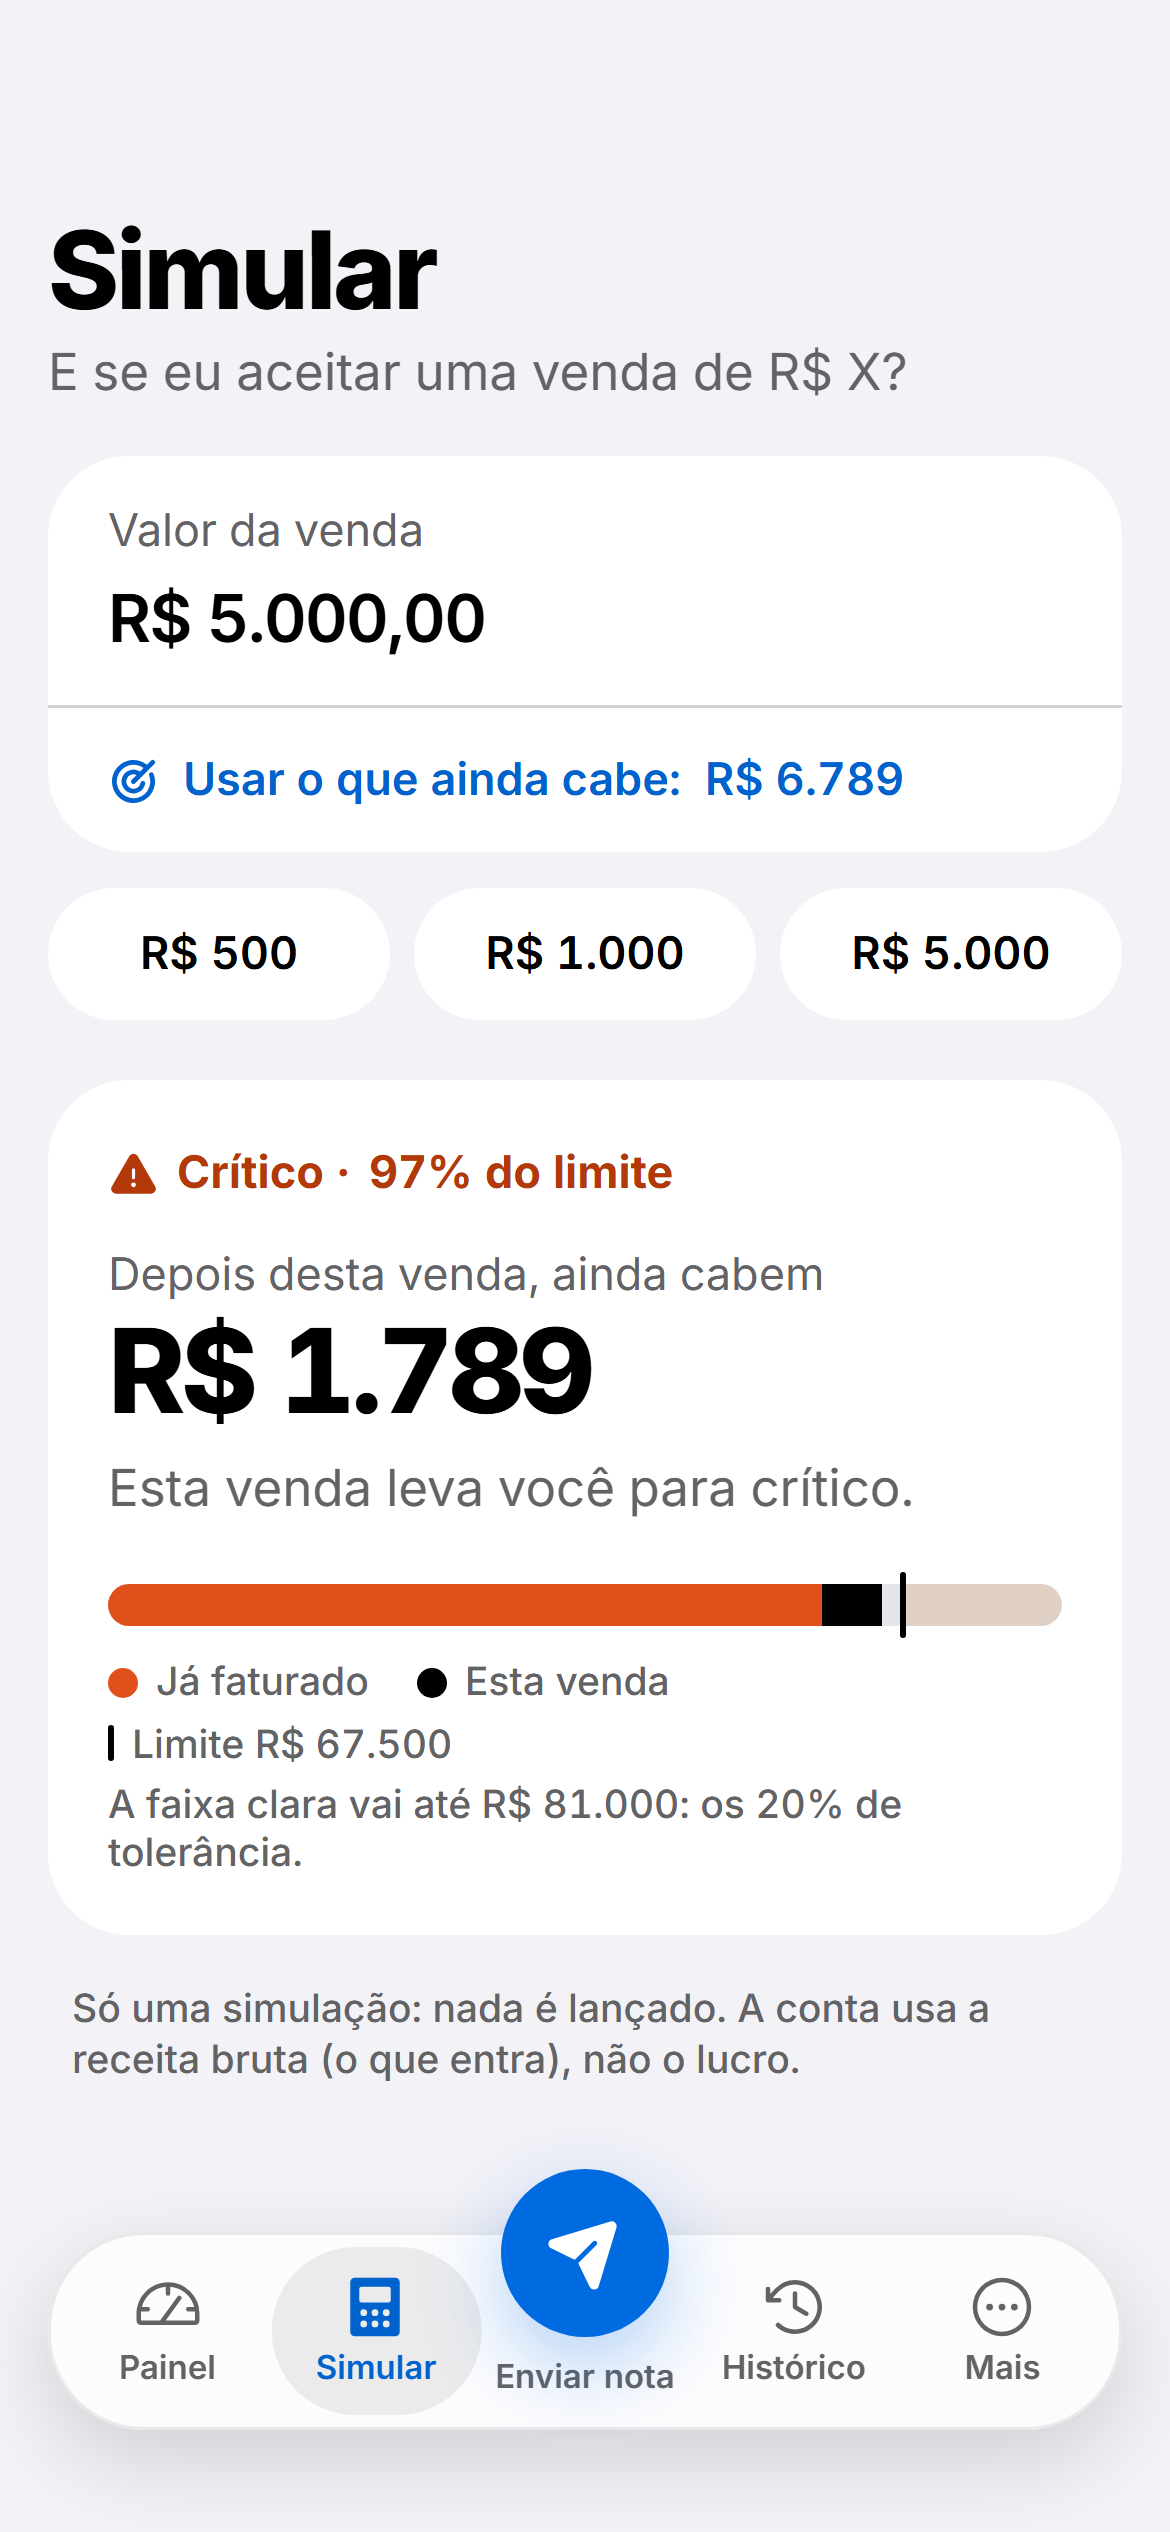
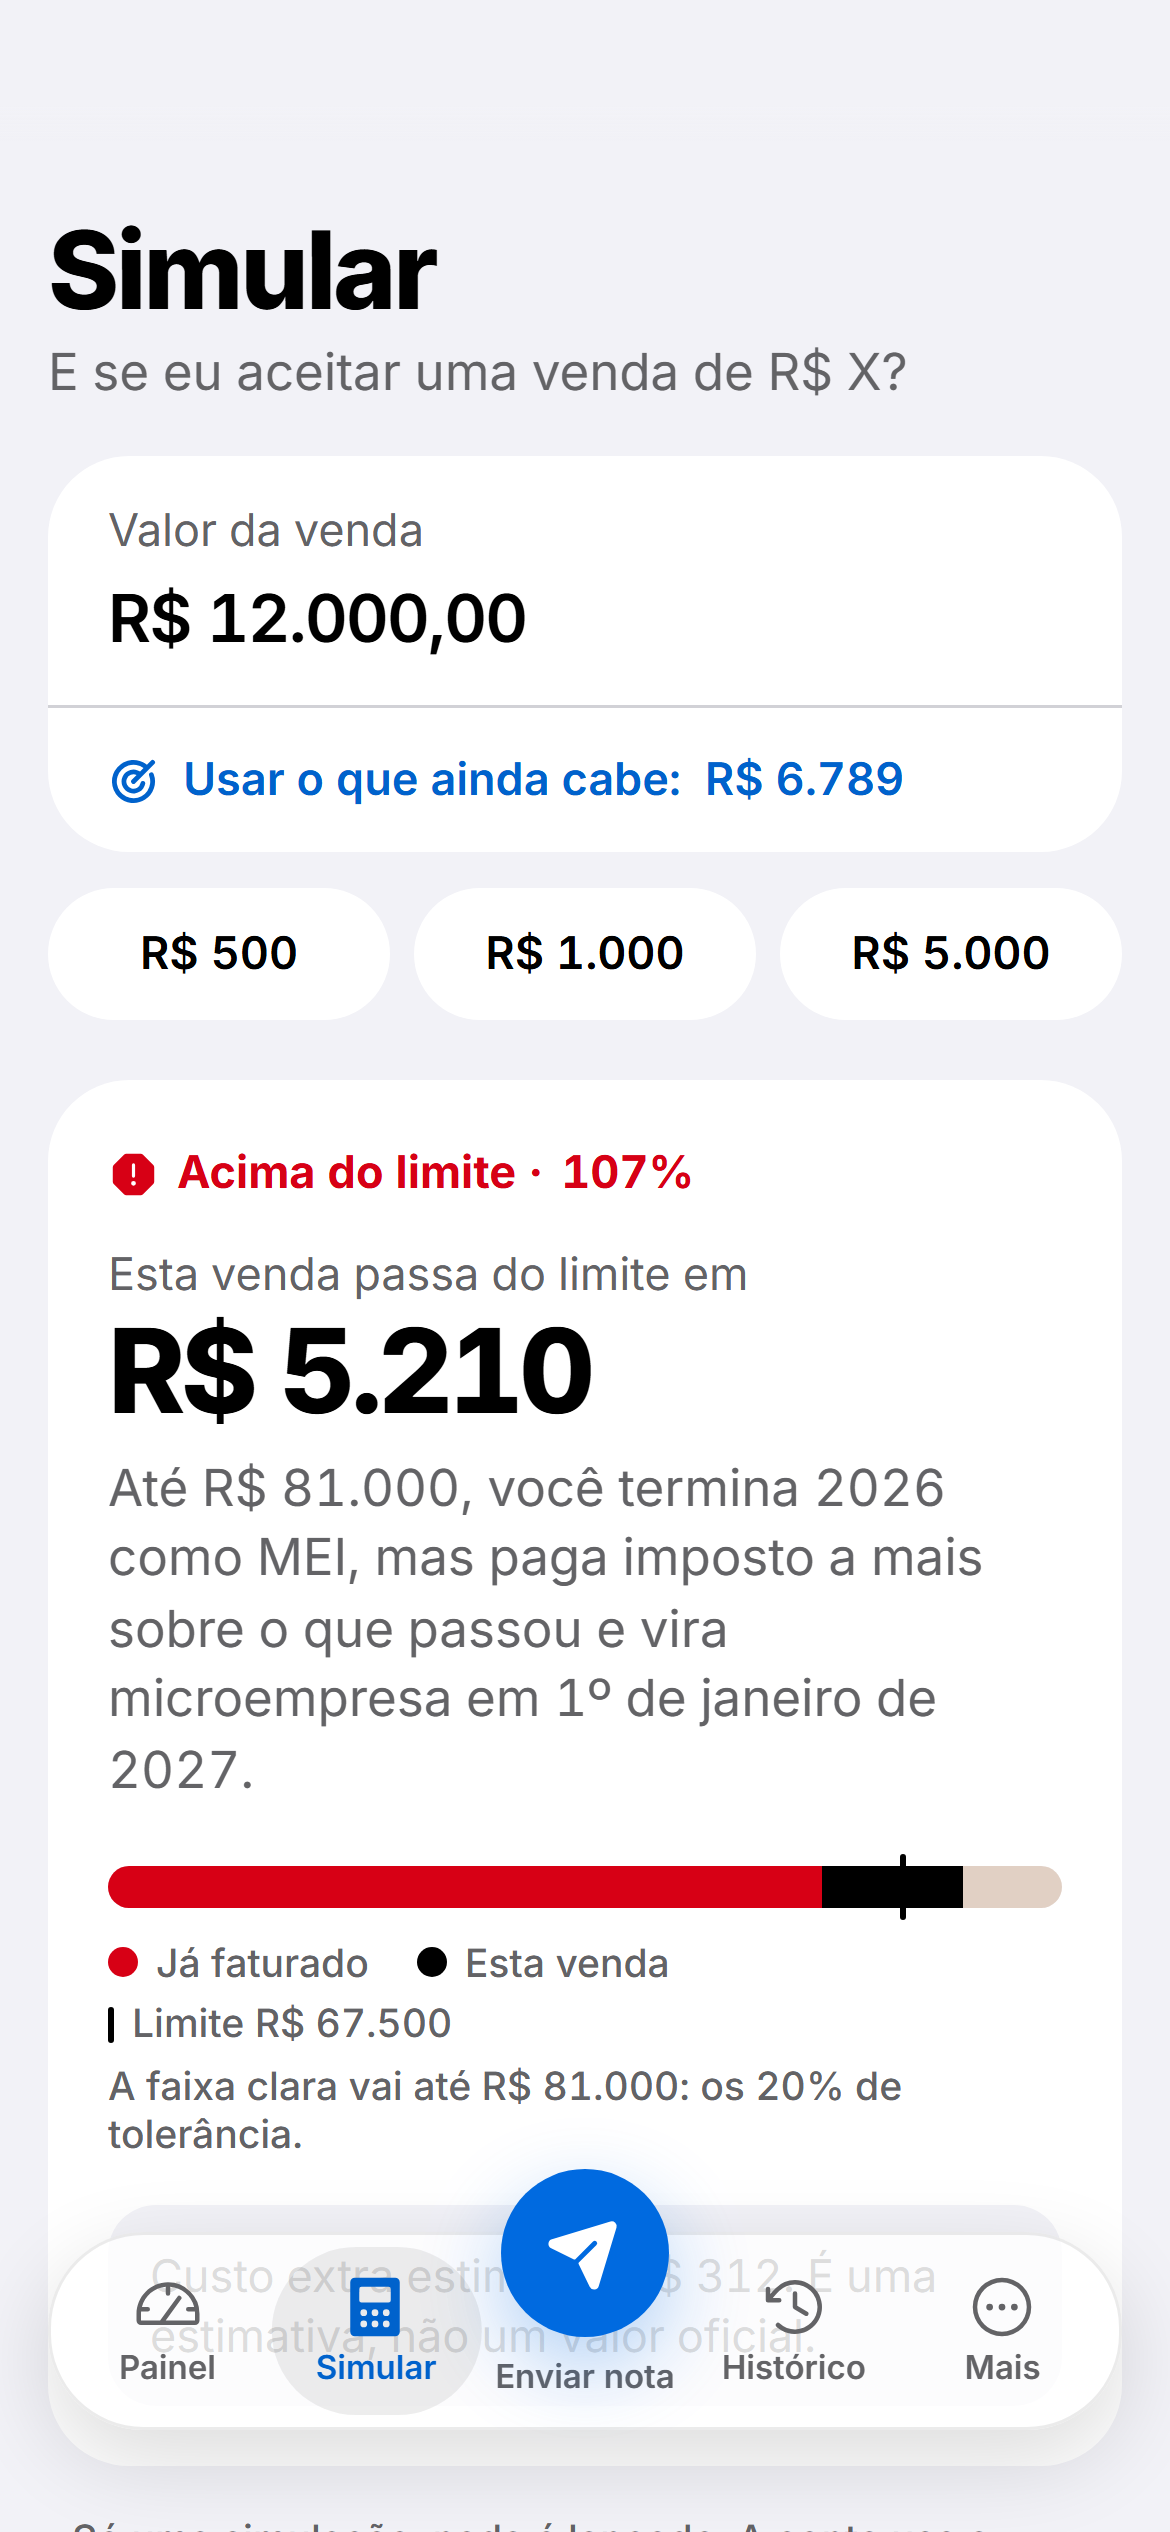
feat(site): demonstração toda em tema claro
As telas da demonstração alternavam claro e escuro sobre o palco claro da
seção, o que deixava o conjunto pesado. Agora todas aparecem em tema claro;
só a abertura continua mostrando o app no escuro. Entram as capturas claras
de Enviar nota e da Previsão, e o Simular claro passa a usar a mesma venda
de R$ 12.000 que o texto cita.

diff --git a/site/src/components/features.tsx b/site/src/components/features.tsx
@@ -19,9 +19,9 @@ import { Reveal } from "./reveal";
 import { EASE } from "@/lib/motion";
 import { APP_URL } from "@/lib/links";
 import painel from "@/assets/telas/painel-claro.webp";
-import enviar from "@/assets/telas/enviar-escuro.webp";
-import simular from "@/assets/telas/simular-escuro.webp";
-import previsao from "@/assets/telas/painel-previsao-escuro.webp";
+import enviar from "@/assets/telas/enviar-claro.webp";
+import simular from "@/assets/telas/simular-claro.webp";
+import previsao from "@/assets/telas/painel-previsao-claro.webp";
 import historico from "@/assets/telas/historico-claro.webp";
 
 type Chapter = {
@@ -36,7 +36,10 @@ type Chapter = {
   alt: string;
 };
 
-/** Cada capítulo descreve só o que a tela mostra (capturas do app publicado, dados fictícios). */
+/**
+ * Cada capítulo descreve só o que a tela mostra (capturas do app publicado, dados fictícios).
+ * Todas em tema claro, combinando com o palco claro da seção; só a abertura mostra o app no escuro.
+ */
 const CHAPTERS: Chapter[] = [
   {
     id: "painel",
@@ -55,7 +58,7 @@ const CHAPTERS: Chapter[] = [
     body: "Digite o valor e a resposta aparece enquanto você digita: quanto ainda cabe, ou quanto a venda passa do limite, com a consequência em português e o custo extra estimado.",
     note: "Na tela, uma venda de R$ 12.000 passaria do limite em R$ 5.210.",
     shot: simular,
-    screen: "dark",
+    screen: "light",
     alt: "Simulação de uma venda de R$ 12.000: acima do limite, 107%. A venda passa do limite em R$ 5.210; até R$ 81.000, o ano termina como MEI, mas com imposto a mais sobre o que passou.",
   },
   {
@@ -74,7 +77,7 @@ const CHAPTERS: Chapter[] = [
     body: "Foto, PDF ou comprovante de Pix. A IA só extrai os campos; nada entra no limite antes de você conferir. E quem decide se é receita ou despesa é o código, pelo CNPJ do seu MEI.",
     note: "Sem comprovante? Dá para lançar à mão uma venda em dinheiro ou Pix.",
     shot: enviar,
-    screen: "dark",
+    screen: "light",
     alt: "Tela Enviar nota: foto, PDF ou comprovante de Pix; a IA lê os dados e você confere antes de somar ao limite. Botões Tirar foto e Escolher arquivo, e o atalho Lançar sem nota.",
   },
   {
@@ -83,7 +86,7 @@ const CHAPTERS: Chapter[] = [
     title: "Saiba como o ano vai fechar.",
     body: "Pela média de receita desde a abertura, o Teto projeta onde o ano termina e se o limite será ultrapassado. A previsão muda a cada nova receita. E o DAS do mês aparece com a data e um atalho para gerar a guia.",
     shot: previsao,
-    screen: "dark",
+    screen: "light",
     alt: "Previsão: você deve passar do limite em 28 de dezembro; no ritmo atual, 2026 fecha em R$ 68.299. DAS vence em 20 de dezembro, com o atalho Gerar guia. Notas em dia e gráfico de receita por mês.",
   },
 ];
